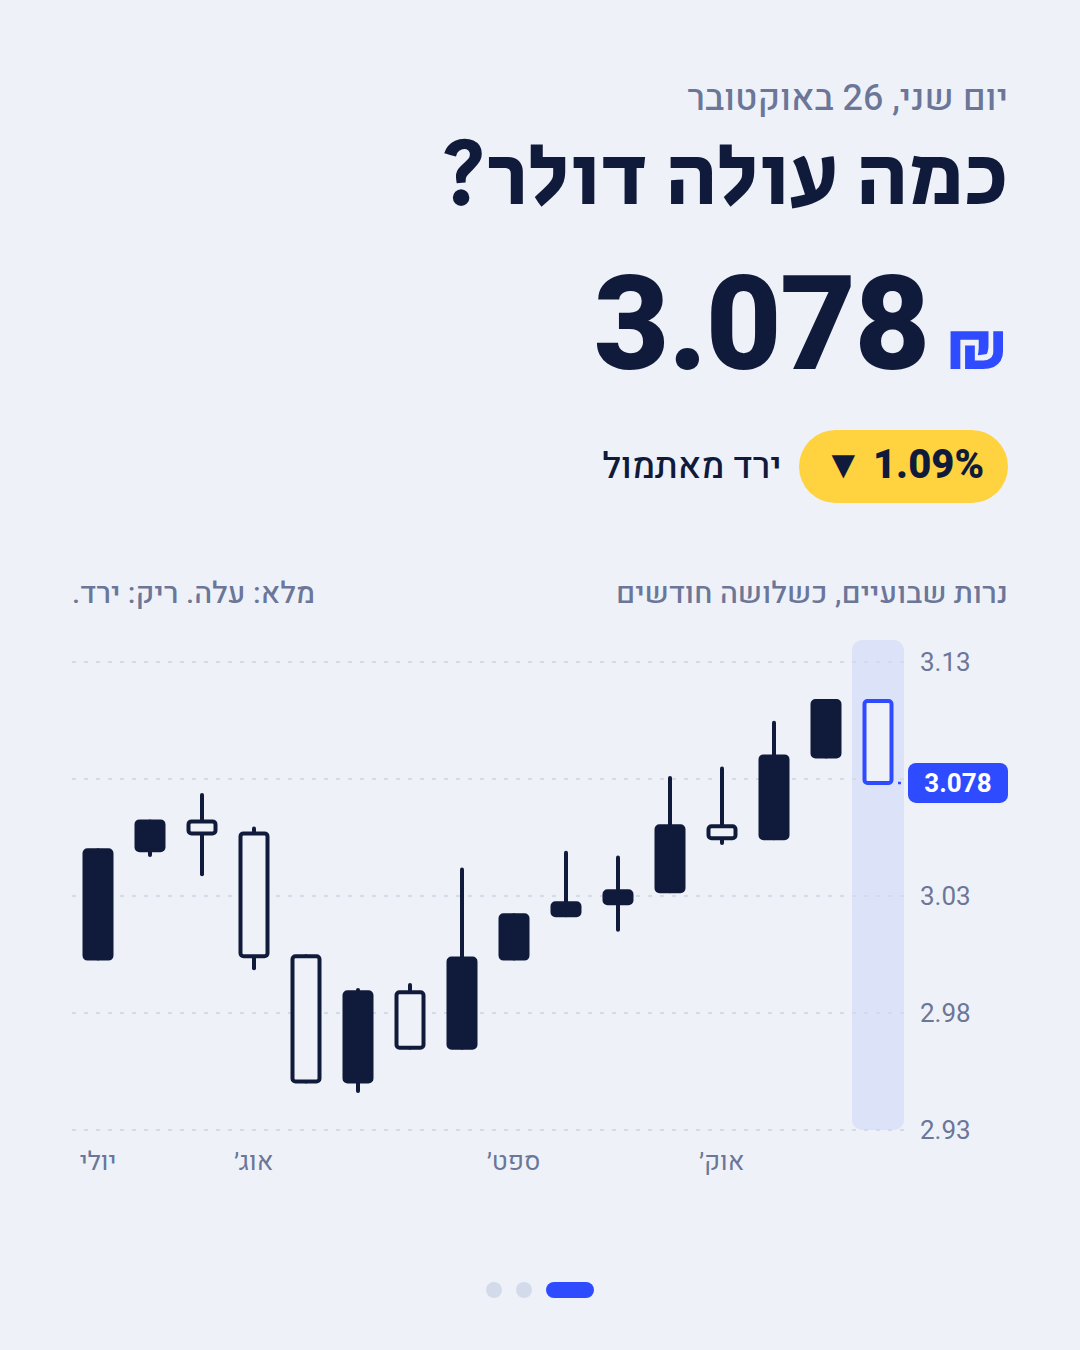
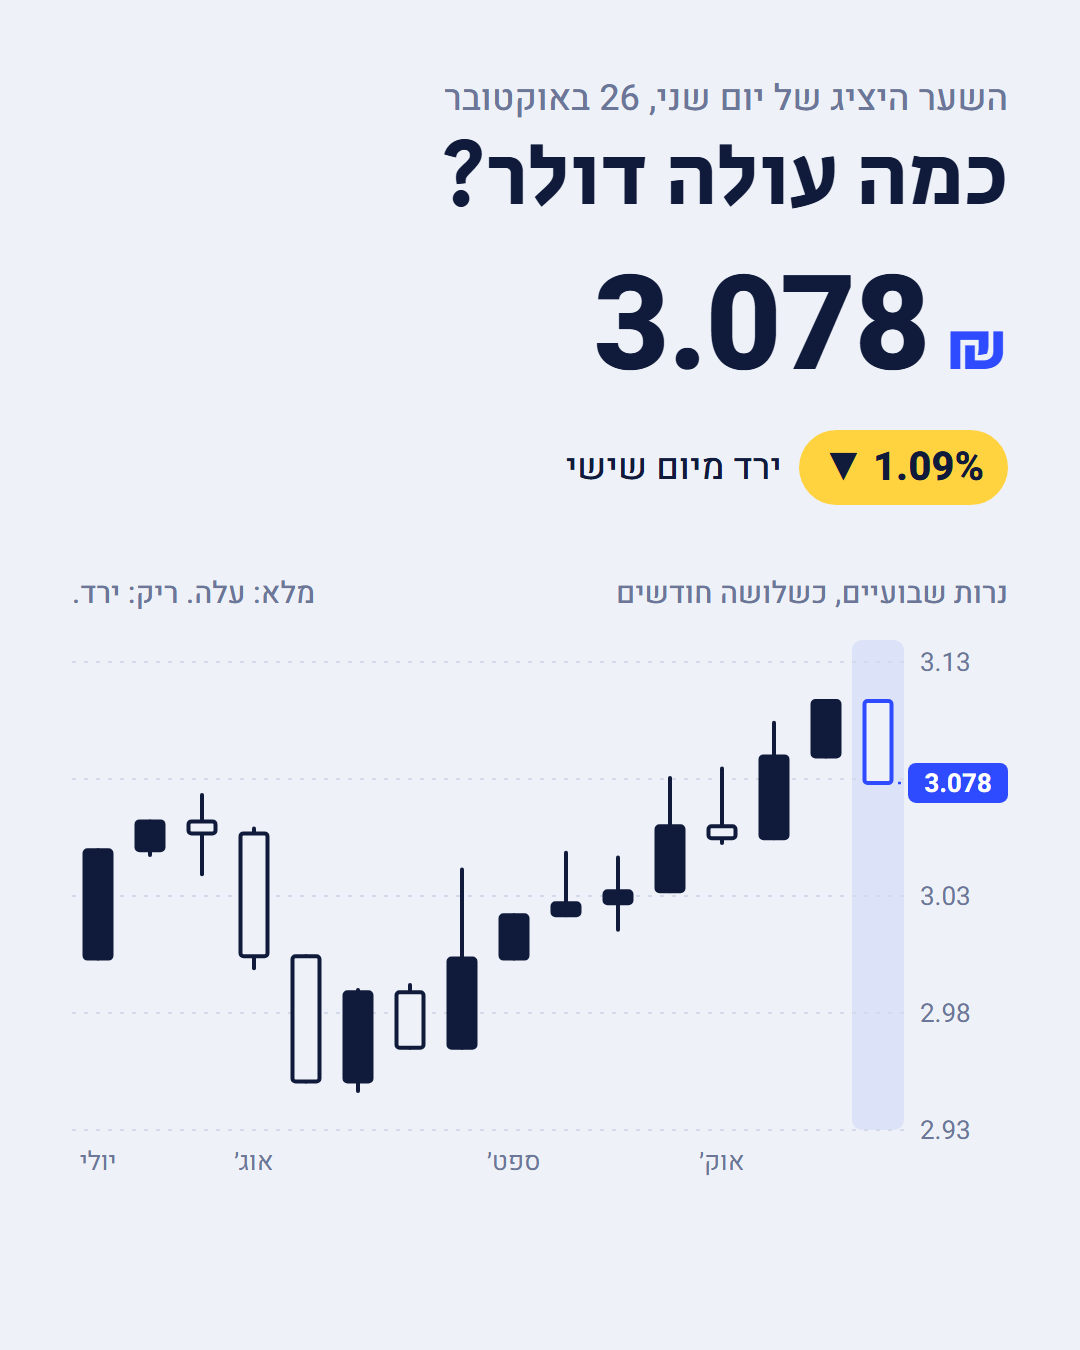
Carousel fixes: drop custom dots and caption hint, clearer rate date and change label

diff --git a/money_cards.py b/money_cards.py
@@ -127,8 +127,8 @@ h1{{font-family:'Secular One',sans-serif;font-weight:400;font-size:88px;line-hei
 
 
 def page(body, step):
-    dots = "".join(f'<i class="{"on" if i == step else ""}"></i>' for i in range(3))
-    return f'<!doctype html><html lang="he" dir="rtl"><head><meta charset="utf-8"><style>{CSS}</style></head><body>{body}<div class="dots">{dots}</div></body></html>'
+    # Instagram draws its own page dots on carousels, so none are drawn here.
+    return f'<!doctype html><html lang="he" dir="rtl"><head><meta charset="utf-8"><style>{CSS}</style></head><body>{body}</body></html>'
 
 
 def slide1(series, candles):
@@ -137,7 +137,8 @@ def slide1(series, candles):
     ch = (rate / prev - 1) * 100
     arrow = "▼" if ch < 0 else "▲"
     word = "ירד" if ch < 0 else "עלה"
-    date_txt = f"יום {DAYS[d.weekday()]}, {d.day} ב{MONTHS[d.month - 1]}"
+    date_txt = f"השער היציג של יום {DAYS[d.weekday()]}, {d.day} ב{MONTHS[d.month - 1]}"
+    since = f"מיום {DAYS[series[-2][0].weekday()]}"
     return page(f"""
 <div class="abs sub" style="top:72px;right:72px">{date_txt}</div>
 <h1 class="abs" style="top:132px;right:72px">כמה עולה דולר?</h1>
@@ -145,7 +146,7 @@ def slide1(series, candles):
   <span style="font-size:132px;line-height:1;letter-spacing:-2px">{rate:.3f}</span><span style="font-size:64px;color:{COBALT}">₪</span></div>
 <div class="abs" style="top:430px;right:72px;display:flex;align-items:center;gap:18px">
   <span class="ltr" style="background:{SUN};font-weight:800;font-size:40px;padding:6px 24px 8px;border-radius:40px">{arrow} {abs(ch):.2f}%</span>
-  <span style="font-size:36px;font-weight:500">{word} מאתמול</span></div>
+  <span style="font-size:36px;font-weight:500">{word} {since}</span></div>
 <div class="abs" style="top:572px;right:72px;left:72px;display:flex;justify-content:space-between;font-size:30px;color:{MUTE};font-weight:500">
   <span>נרות שבועיים, כשלושה חודשים</span><span>מלא: עלה. ריק: ירד.</span></div>
 <div class="abs ltr" style="top:640px;left:72px">{candles_svg(candles)}</div>
@@ -193,9 +194,9 @@ def slide3(series, candles):
     avg = sum(moves) / len(moves)
     today = moves[-1]
     ratio = today / avg if avg else 1
-    today_txt = (f"התנועה של היום, {today:.2f}%, חזקה פי {ratio:.1f} מהרגיל." if ratio >= 1.5
-                 else f"התנועה של היום, {today:.2f}%, בטווח הרגיל." if ratio >= 0.5
-                 else f"היום השער כמעט לא זז, {today:.2f}%.")
+    today_txt = (f"התנועה האחרונה, {today:.2f}%, חזקה פי {ratio:.1f} מהרגיל." if ratio >= 1.5
+                 else f"התנועה האחרונה, {today:.2f}%, בטווח הרגיל." if ratio >= 0.5
+                 else f"בשער האחרון כמעט לא היה שינוי, {today:.2f}%.")
     marker = (1 - pos) * 100
     return page(f"""
 <h1 class="abs" style="top:100px;right:72px;left:72px">מה הנתונים אומרים?</h1>
@@ -247,8 +248,8 @@ def caption(series):
     d, rate = series[-1]
     ch = (rate / series[-2][1] - 1) * 100
     arrow = "▼" if ch < 0 else "▲"
-    return (f"הדולר עומד על {rate:.3f} ₪ ({arrow} {abs(ch):.2f}% מאתמול).\n\n"
-            "גוללים הצידה: מה זה אומר לכיס שלך, ומה הנתונים אומרים.\n\n"
+    prev_day = DAYS[series[-2][0].weekday()]
+    return (f"הדולר עומד על {rate:.3f} ₪ ({arrow} {abs(ch):.2f}% מיום {prev_day}).\n\n"
             "מקור: בנק ישראל, שער יציג. הסבר כללי, לא ייעוץ השקעות.\n\n"
             "#דולר #שערהדולר #כסף #חיסכון #כלכלה")
 
